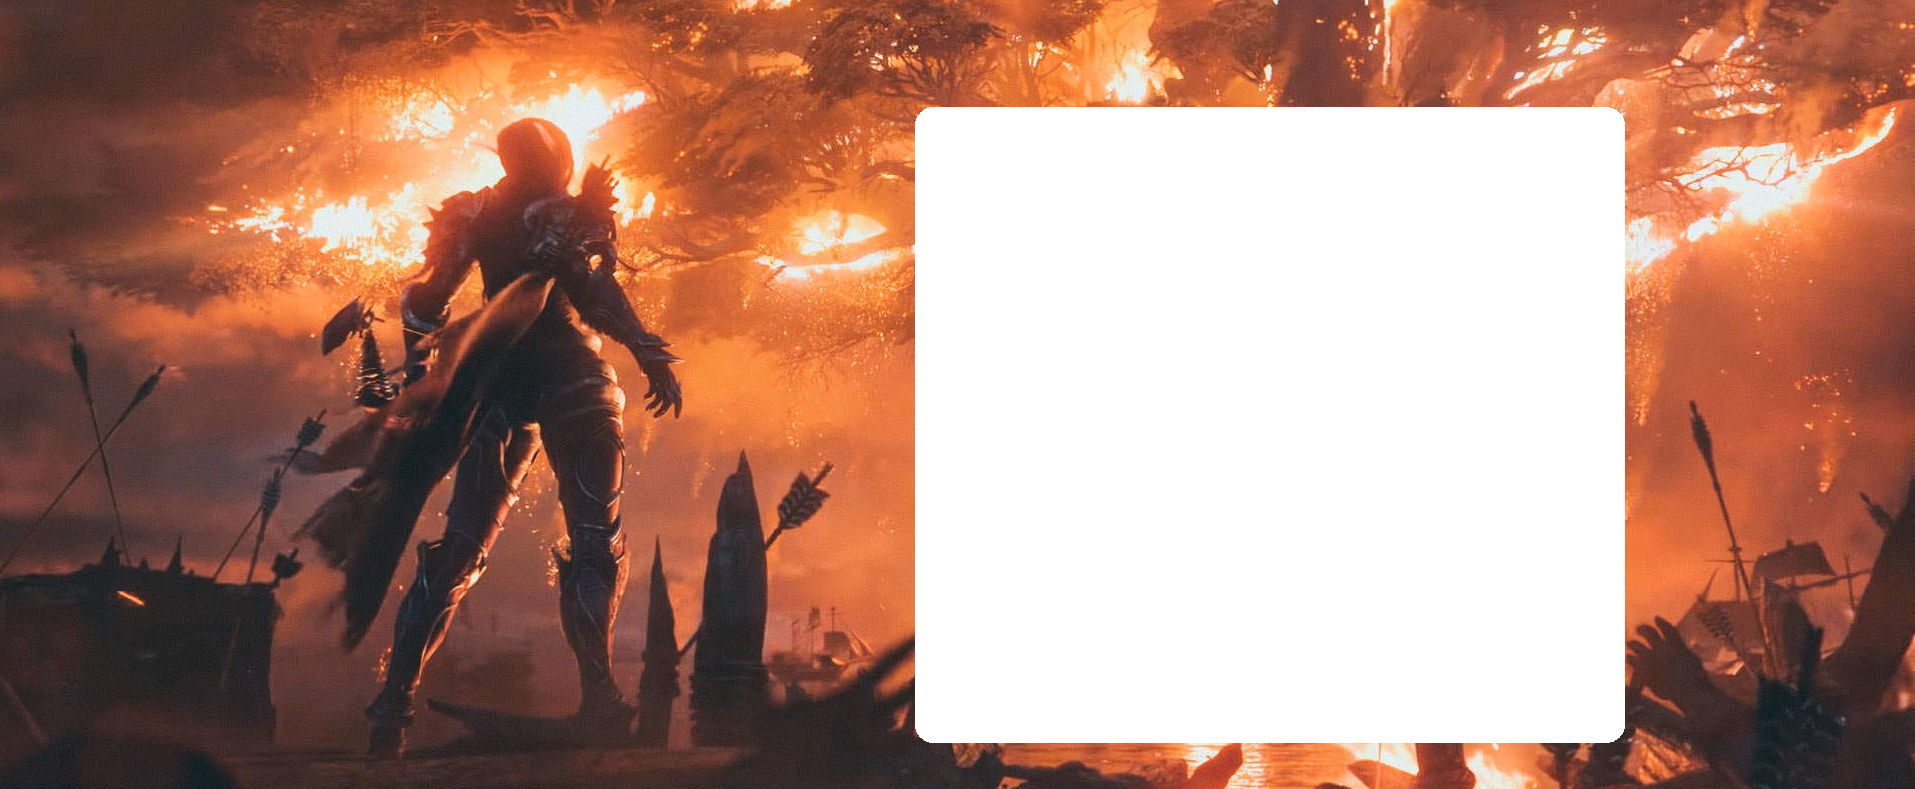
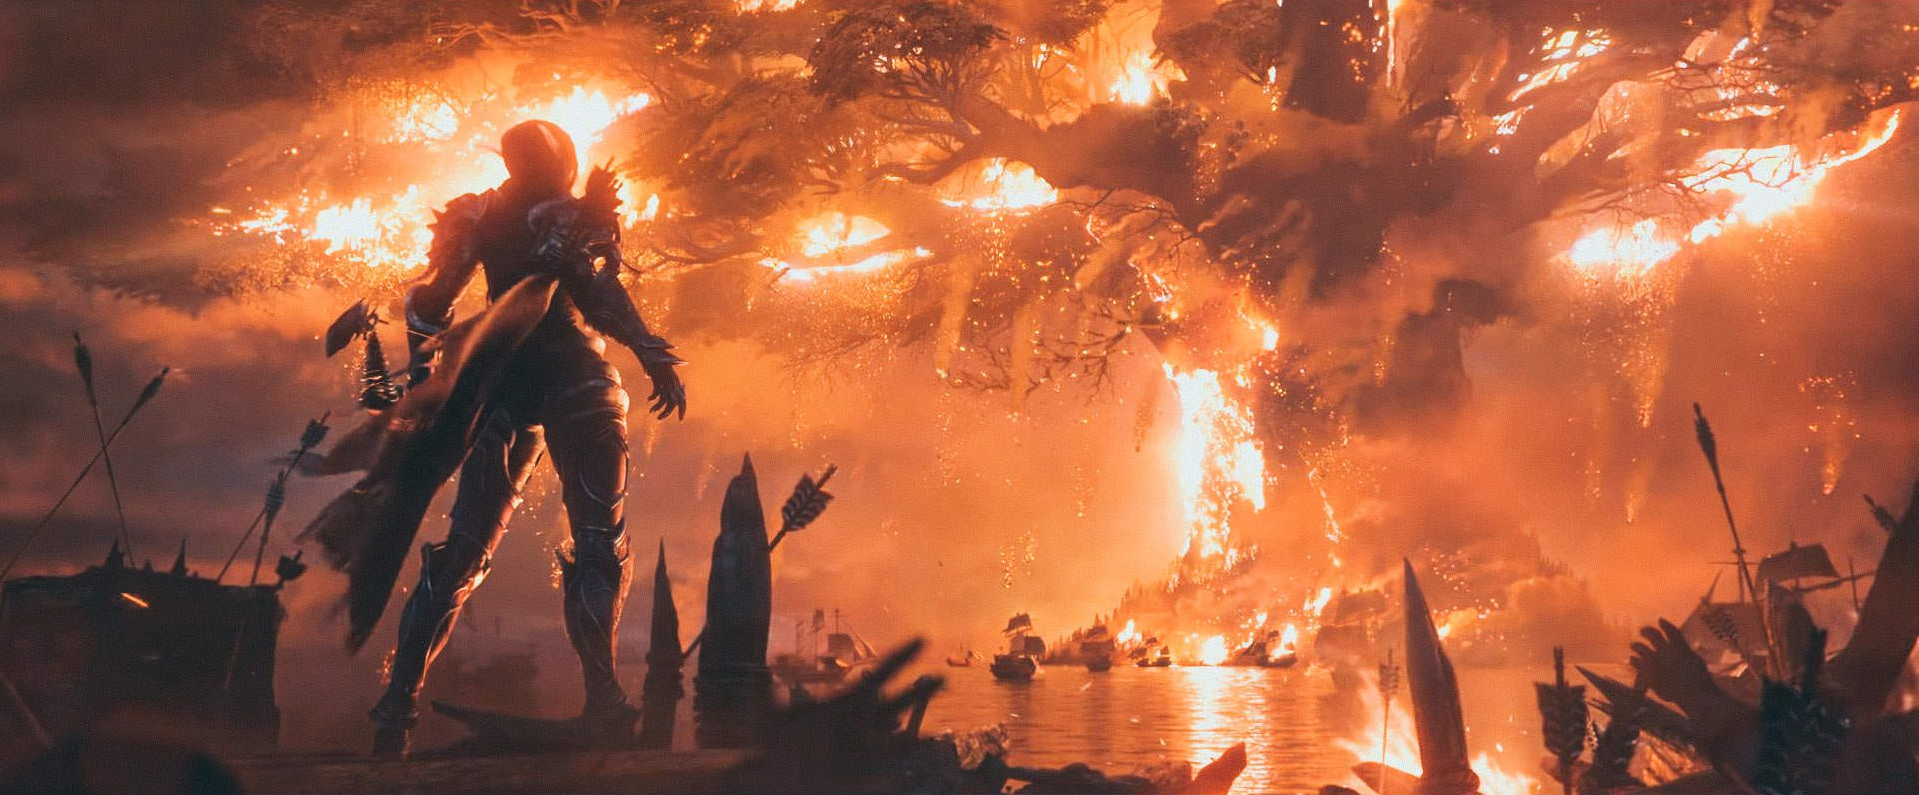
mudanças

diff --git a/css/login.css b/css/login.css
@@ -18,8 +18,7 @@
 .container {
     width: 100vw;
     height: 100vh;
-    display: grid;
-    grid-template-columns: repeat(2, 1fr);
+    display: flex;
     grid-gap: 7rem;
     padding: 0 2rem;
 }
@@ -36,11 +35,24 @@
 }
 
 .login_form {
-    width: 360px;
-    margin-left: 690px;
+    transition: all 0.4s step-start;
+    box-shadow: 0 4px 8px 0 rgba(0, 0, 0, 0.4);
+    border-radius: 10%;
+    padding: 60px 40px;
+    background-color: #fff;
+    width: 480px;
+    -webkit-border-radius: 10%;
+    -moz-border-radius: 10%;
+    -ms-border-radius: 10%;
+    -o-border-radius: 10%;
+    -webkit-transition: all 0.4s step-start;
+    -moz-transition: all 0.4s step-start;
+    -ms-transition: all 0.4s step-start;
+    -o-transition: all 0.4s step-start;
 }
 
 .login_container {
+    justify-content: end;
     width: 100%;
     padding-top: 50px;
     display: flex;

diff --git a/home.php b/home.php
@@ -12,7 +12,7 @@
     <link href='https://unpkg.com/boxicons@2.0.9/css/boxicons.min.css' rel='stylesheet'>
     <link rel="stylesheet" href="https://pro.fontawesome.com/releases/v5.10.0/css/all.css" integrity="sha384-AYmEC3Yw5cVb3ZcuHtOA93w35dYTsvhLPVnYs9eStHfGJvOvKxVfELGroGkvsg+p" crossorigin="anonymous"/>
     <meta name="viewport" content="width=device-width, initial-scale=1.0">
-    <link rel="shortcut icon" type="image/png" href="img/wow.ico">
+    <link rel="icon" type="image/png" href="img/wow.ico">
 </head>
 
 <body>
